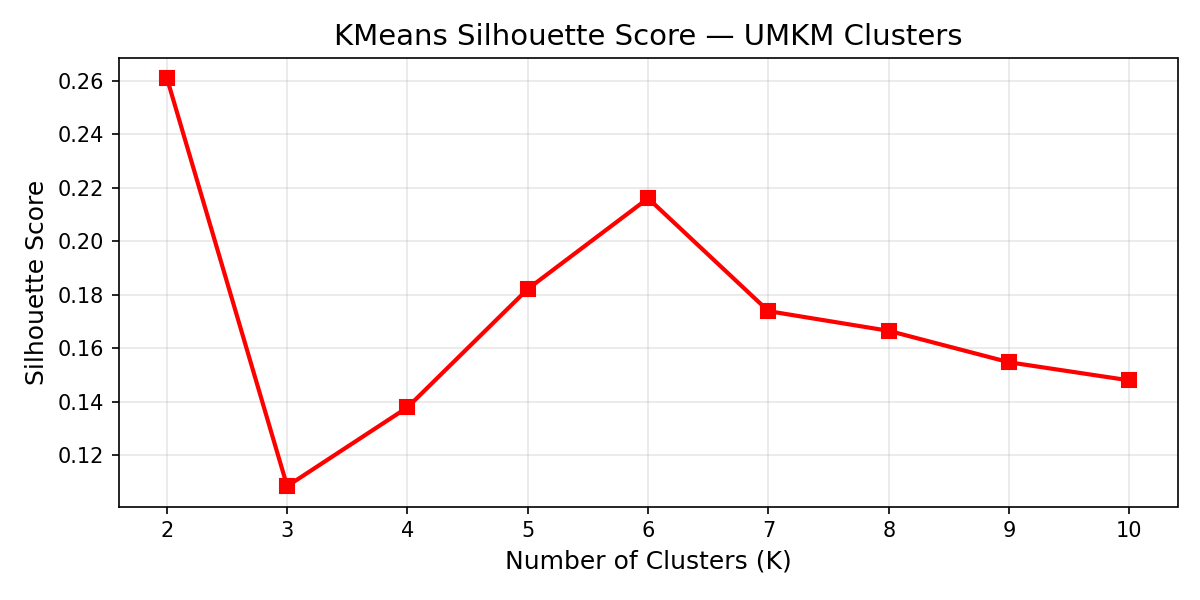
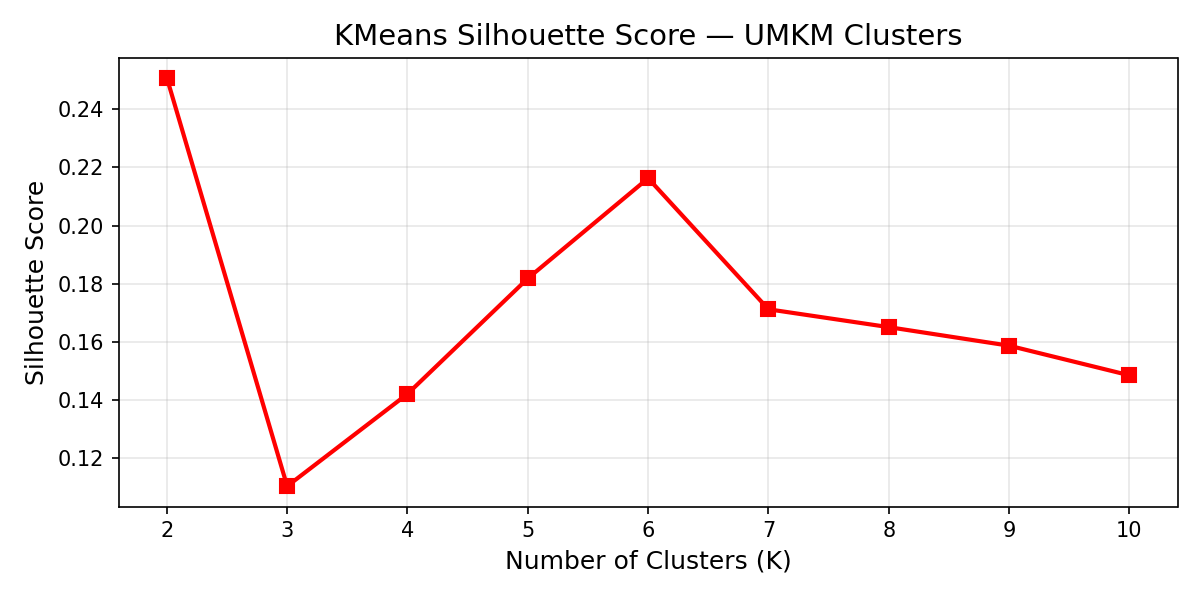
about us design

diff --git a/resources/views/creators/index.blade.php b/resources/views/creators/index.blade.php
@@ -27,18 +27,31 @@
             border: 1px solid rgba(255, 255, 255, 0.3);
         }
         .creative-tier-chip {
-            background: linear-gradient(135deg, rgba(255,255,255,0.96), rgba(248,250,252,0.86));
-            box-shadow: 0 18px 35px rgba(30, 58, 138, 0.14);
+            width: 100%;
+            background:
+                radial-gradient(circle at 22% 12%, rgba(255,255,255,0.92), transparent 34%),
+                linear-gradient(145deg, rgba(255,255,255,0.96), rgba(239,246,255,0.9));
+            box-shadow: 0 16px 32px rgba(30, 58, 138, 0.12);
         }
-        .creative-tier-chip img {
+        .creative-tier-chip .tier-art {
+            background: linear-gradient(145deg, #FFFFFF, #F8FAFC);
+            box-shadow: inset 0 0 0 1px rgba(37,99,235,0.08), 0 12px 24px rgba(37,99,235,0.12);
+        }
+        .creative-tier-chip .tier-art img {
             mix-blend-mode: multiply;
         }
         .creative-tier-chip.is-expert {
-            background: linear-gradient(135deg, #0F172A, #1E3A8A);
-            box-shadow: 0 18px 35px rgba(244, 63, 94, 0.18);
+            background:
+                radial-gradient(circle at 25% 10%, rgba(255,255,255,0.18), transparent 34%),
+                linear-gradient(145deg, #0F172A, #1E3A8A 70%, #BE123C);
+            box-shadow: 0 16px 32px rgba(244, 63, 94, 0.18);
         }
-        .creative-tier-chip.is-expert img {
-            mix-blend-mode: normal;
+        .creative-tier-chip.is-expert .tier-art {
+            background: linear-gradient(145deg, rgba(15,23,42,0.9), rgba(30,58,138,0.82));
+            box-shadow: inset 0 0 0 1px rgba(255,255,255,0.12), 0 12px 24px rgba(15,23,42,0.3);
+        }
+        .creative-tier-chip.is-expert .tier-art img {
+            mix-blend-mode: screen;
         }
     </style>
 </head>
@@ -125,31 +138,36 @@
                     {!! $borderDecor !!}
                     <div class="relative z-10 flex flex-col h-full">
                         <!-- Profile Header -->
-                        <div class="flex items-start gap-5 mb-6 relative">
+                        <div class="flex items-start gap-5 mb-5 relative">
                             <div class="w-20 h-20 rounded-[1.5rem] overflow-hidden shrink-0 border-2 border-white shadow-lg shadow-[#2563EB]/10 group-hover:scale-105 transition-transform">
                                 <img src="{{ $creator->profile_photo ?? 'https://ui-avatars.com/api/?name='.urlencode($creator->name).'&background=2563EB&color=fff' }}" alt="{{ $creator->name }}" class="w-full h-full object-cover">
                             </div>
-                            <div class="flex-grow pt-1">
-                                <h3 class="text-xl font-display font-bold text-[#1E3A8A] leading-tight group-hover:text-[#2563EB] transition-colors pr-24">{{ $creator->name }}</h3>
+                            <div class="flex-grow pt-1 min-w-0">
+                                <h3 class="text-xl font-display font-bold text-[#1E3A8A] leading-tight group-hover:text-[#2563EB] transition-colors">{{ $creator->name }}</h3>
                                 <div class="flex flex-wrap items-center gap-2 mt-1.5">
                                     <span class="text-xs font-bold text-[#2563EB] uppercase tracking-wider">{{ $creator->display_creative_category ?? 'Creative Worker' }}</span>
                                     <span class="w-1 h-1 bg-[#1E3A8A]/20 rounded-full"></span>
                                     <span class="text-xs font-medium text-[#1E3A8A]/40">{{ $creator->city ?? 'Domisili tidak diatur' }}</span>
                                 </div>
                             </div>
+                        </div>
 
-                            @if($creator->creative_tier)
-                                <div class="absolute -top-2 -right-2 creative-tier-chip {{ $creator->creative_tier['name'] === 'Expert' ? 'is-expert' : '' }} rounded-[1.35rem] border border-white/90 p-2 min-w-[5.5rem] text-center transition-all group-hover:-translate-y-1 group-hover:rotate-2" title="{{ $creator->creative_tier['name'] }} - {{ $creator->five_star_ratings_count }} ulasan bintang 5">
-                                    <div class="mx-auto w-12 h-12 rounded-2xl {{ $creator->creative_tier['name'] === 'Expert' ? 'bg-[#0F172A] border-rose-300/20' : 'bg-white border-[#2563EB]/10' }} border flex items-center justify-center overflow-hidden">
-                                        <img src="{{ $creator->creative_tier['badge'] }}" alt="{{ $creator->creative_tier['name'] }} Badge" class="w-11 h-11 object-contain transition-transform group-hover:scale-110">
-                                    </div>
-                                    <span class="mt-1.5 inline-flex px-2 py-0.5 rounded-full {{ $creator->creative_tier['bg'] }} {{ $creator->creative_tier['color'] }} text-[8px] font-black uppercase tracking-wider">
+                        @if($creator->creative_tier)
+                            <div class="creative-tier-chip {{ $creator->creative_tier['name'] === 'Expert' ? 'is-expert' : '' }} rounded-[1.8rem] border border-white/90 p-3 mb-6 flex items-center gap-4 transition-all group-hover:-translate-y-1" title="{{ $creator->creative_tier['name'] }} - {{ $creator->five_star_ratings_count }} ulasan bintang 5">
+                                <div class="tier-art w-16 h-16 rounded-[1.35rem] flex items-center justify-center overflow-hidden shrink-0">
+                                    <img src="{{ $creator->creative_tier['badge'] }}" alt="{{ $creator->creative_tier['name'] }} Badge" class="w-14 h-14 object-contain transition-transform group-hover:scale-110">
+                                </div>
+                                <div class="min-w-0">
+                                    <span class="inline-flex px-3 py-1 rounded-full {{ $creator->creative_tier['name'] === 'Expert' ? 'bg-white/10 text-rose-100 border border-white/10' : $creator->creative_tier['bg'].' '.$creator->creative_tier['color'] }} text-[10px] font-black uppercase tracking-wider">
                                         {{ $creator->creative_tier['name'] }}
                                     </span>
-                                    <span class="block mt-1 text-[9px] font-extrabold {{ $creator->creative_tier['name'] === 'Expert' ? 'text-white/70' : 'text-[#1E3A8A]/45' }}">{{ $creator->five_star_ratings_count }}x 5&#9733;</span>
+                                    <div class="mt-2 flex flex-wrap items-center gap-2">
+                                        <span class="text-lg font-display font-bold {{ $creator->creative_tier['name'] === 'Expert' ? 'text-white' : 'text-[#1E3A8A]' }}">{{ $creator->five_star_ratings_count }}&times; 5&#9733;</span>
+                                        <span class="text-[10px] font-extrabold uppercase tracking-[0.16em] {{ $creator->creative_tier['name'] === 'Expert' ? 'text-white/55' : 'text-[#1E3A8A]/40' }}">Ulasan Terbaik</span>
+                                    </div>
                                 </div>
-                            @endif
-                        </div>
+                            </div>
+                        @endif
 
                         <!-- Skills & Stats -->
                         <div class="flex-grow">

diff --git a/resources/views/creators/show.blade.php b/resources/views/creators/show.blade.php
@@ -26,21 +26,35 @@
         }
         .creative-tier-chip,
         .creative-tier-stat {
-            background: linear-gradient(135deg, rgba(255,255,255,0.96), rgba(239,246,255,0.84));
-            box-shadow: 0 18px 35px rgba(37, 99, 235, 0.13);
+            background:
+                radial-gradient(circle at 22% 12%, rgba(255,255,255,0.92), transparent 34%),
+                linear-gradient(145deg, rgba(255,255,255,0.96), rgba(239,246,255,0.9));
+            box-shadow: 0 22px 42px rgba(30, 58, 138, 0.16);
         }
-        .creative-tier-chip img,
-        .creative-tier-stat img {
+        .creative-tier-chip .tier-art,
+        .creative-tier-stat .tier-art {
+            background: linear-gradient(145deg, #FFFFFF, #F8FAFC);
+            box-shadow: inset 0 0 0 1px rgba(37,99,235,0.08), 0 12px 24px rgba(37,99,235,0.12);
+        }
+        .creative-tier-chip .tier-art img,
+        .creative-tier-stat .tier-art img {
             mix-blend-mode: multiply;
         }
         .creative-tier-chip.is-expert,
         .creative-tier-stat.is-expert {
-            background: linear-gradient(135deg, #0F172A, #1E3A8A);
-            box-shadow: 0 18px 35px rgba(244, 63, 94, 0.18);
+            background:
+                radial-gradient(circle at 25% 10%, rgba(255,255,255,0.18), transparent 34%),
+                linear-gradient(145deg, #0F172A, #1E3A8A 70%, #BE123C);
+            box-shadow: 0 22px 42px rgba(244, 63, 94, 0.2);
         }
-        .creative-tier-chip.is-expert img,
-        .creative-tier-stat.is-expert img {
-            mix-blend-mode: normal;
+        .creative-tier-chip.is-expert .tier-art,
+        .creative-tier-stat.is-expert .tier-art {
+            background: linear-gradient(145deg, rgba(15,23,42,0.9), rgba(30,58,138,0.82));
+            box-shadow: inset 0 0 0 1px rgba(255,255,255,0.12), 0 12px 24px rgba(15,23,42,0.3);
+        }
+        .creative-tier-chip.is-expert .tier-art img,
+        .creative-tier-stat.is-expert .tier-art img {
+            mix-blend-mode: screen;
         }
     </style>
 </head>
@@ -65,15 +79,15 @@
                         <div class="flex items-center gap-3 mb-2">
                             <p class="text-[11px] font-extrabold uppercase tracking-[0.22em] text-[#2563EB]">{{ $creator->display_creative_category ?? 'Creative Worker' }}</p>
                             @if($creator->creative_tier)
-                                <div class="creative-tier-chip {{ $creator->creative_tier['name'] === 'Expert' ? 'is-expert' : '' }} inline-flex items-center gap-2.5 px-3 py-2 rounded-full border border-white/90" title="{{ $creator->five_star_ratings_count }} ulasan bintang 5">
-                                    <span class="w-9 h-9 rounded-full {{ $creator->creative_tier['name'] === 'Expert' ? 'bg-[#0F172A] border-rose-300/20' : 'bg-white border-[#2563EB]/10' }} border flex items-center justify-center overflow-hidden">
-                                        <img src="{{ $creator->creative_tier['badge'] }}" alt="{{ $creator->creative_tier['name'] }} Badge" class="w-8 h-8 object-contain">
+                                <div class="creative-tier-chip {{ $creator->creative_tier['name'] === 'Expert' ? 'is-expert' : '' }} inline-flex items-center gap-3 px-4 py-3 rounded-[1.65rem] border border-white/90" title="{{ $creator->five_star_ratings_count }} ulasan bintang 5">
+                                    <span class="tier-art w-14 h-14 rounded-[1.2rem] flex items-center justify-center overflow-hidden">
+                                        <img src="{{ $creator->creative_tier['badge'] }}" alt="{{ $creator->creative_tier['name'] }} Badge" class="w-12 h-12 object-contain">
                                     </span>
                                     <span class="leading-none">
-                                        <span class="block text-[10px] font-extrabold uppercase tracking-wider {{ $creator->creative_tier['name'] === 'Expert' ? 'text-rose-200' : $creator->creative_tier['color'] }}">
+                                        <span class="inline-flex px-3 py-1 rounded-full {{ $creator->creative_tier['name'] === 'Expert' ? 'bg-white/10 text-rose-100 border border-white/10' : $creator->creative_tier['bg'].' '.$creator->creative_tier['color'] }} text-[10px] font-extrabold uppercase tracking-wider">
                                             {{ $creator->creative_tier['name'] }}
                                         </span>
-                                        <span class="block text-[10px] font-bold {{ $creator->creative_tier['name'] === 'Expert' ? 'text-white/70' : 'text-[#1E3A8A]/45' }} mt-1">{{ $creator->five_star_ratings_count }}x rating 5&#9733;</span>
+                                        <span class="block text-xs font-bold {{ $creator->creative_tier['name'] === 'Expert' ? 'text-white/72' : 'text-[#1E3A8A]/45' }} mt-2">{{ $creator->five_star_ratings_count }}&times; rating 5&#9733;</span>
                                     </span>
                                 </div>
                             @endif
@@ -105,10 +119,11 @@
                     </div>
                     @if($creator->creative_tier)
                         <div class="creative-tier-stat {{ $creator->creative_tier['name'] === 'Expert' ? 'is-expert' : '' }} rounded-[1.8rem] border border-white p-4 text-center">
-                            <div class="w-11 h-11 mx-auto mb-2 rounded-2xl {{ $creator->creative_tier['name'] === 'Expert' ? 'bg-[#0F172A] border-rose-300/20' : 'bg-white border-[#2563EB]/10' }} border flex items-center justify-center overflow-hidden">
-                                <img src="{{ $creator->creative_tier['badge'] }}" alt="{{ $creator->creative_tier['name'] }} Badge" class="w-10 h-10 object-contain">
+                            <div class="tier-art w-14 h-14 mx-auto mb-3 rounded-[1.2rem] flex items-center justify-center overflow-hidden">
+                                <img src="{{ $creator->creative_tier['badge'] }}" alt="{{ $creator->creative_tier['name'] }} Badge" class="w-12 h-12 object-contain">
                             </div>
-                            <p class="text-[10px] font-extrabold uppercase tracking-[0.16em] {{ $creator->creative_tier['name'] === 'Expert' ? 'text-rose-200' : $creator->creative_tier['color'] }}">{{ $creator->creative_tier['name'] }}</p>
+                            <p class="text-[10px] font-extrabold uppercase tracking-[0.16em] {{ $creator->creative_tier['name'] === 'Expert' ? 'text-rose-100' : $creator->creative_tier['color'] }}">{{ $creator->creative_tier['name'] }}</p>
+                            <p class="mt-1 text-[10px] font-bold {{ $creator->creative_tier['name'] === 'Expert' ? 'text-white/70' : 'text-[#1E3A8A]/45' }}">{{ $creator->five_star_ratings_count }}&times; 5&#9733;</p>
                         </div>
                     @else
                         <div class="rounded-[1.8rem] bg-white/80 border border-white p-4 text-center shadow-sm">

diff --git a/resources/views/dashboard/creative.blade.php b/resources/views/dashboard/creative.blade.php
@@ -82,18 +82,30 @@
             -webkit-text-fill-color: transparent;
         }
         .tier-logo {
-            background: linear-gradient(135deg, rgba(255,255,255,0.96), rgba(239,246,255,0.82));
-            box-shadow: 0 18px 40px rgba(37, 99, 235, 0.14);
+            background:
+                radial-gradient(circle at 22% 12%, rgba(255,255,255,0.92), transparent 34%),
+                linear-gradient(145deg, rgba(255,255,255,0.96), rgba(239,246,255,0.9));
+            box-shadow: 0 22px 42px rgba(30, 58, 138, 0.16);
         }
-        .tier-logo img {
+        .tier-logo .tier-art {
+            background: linear-gradient(145deg, #FFFFFF, #F8FAFC);
+            box-shadow: inset 0 0 0 1px rgba(37,99,235,0.08), 0 12px 24px rgba(37,99,235,0.12);
+        }
+        .tier-logo .tier-art img {
             mix-blend-mode: multiply;
         }
         .tier-logo.is-expert {
-            background: linear-gradient(135deg, #0F172A, #1E3A8A);
-            box-shadow: 0 18px 40px rgba(244, 63, 94, 0.18);
+            background:
+                radial-gradient(circle at 25% 10%, rgba(255,255,255,0.18), transparent 34%),
+                linear-gradient(145deg, #0F172A, #1E3A8A 70%, #BE123C);
+            box-shadow: 0 22px 42px rgba(244, 63, 94, 0.2);
         }
-        .tier-logo.is-expert img {
-            mix-blend-mode: normal;
+        .tier-logo.is-expert .tier-art {
+            background: linear-gradient(145deg, rgba(15,23,42,0.9), rgba(30,58,138,0.82));
+            box-shadow: inset 0 0 0 1px rgba(255,255,255,0.12), 0 12px 24px rgba(15,23,42,0.3);
+        }
+        .tier-logo.is-expert .tier-art img {
+            mix-blend-mode: screen;
         }
     </style>
 </head>
@@ -125,13 +137,13 @@
                             <span class="text-[11px] font-black uppercase tracking-[0.2em] text-slate-600">Online & Siap Bekerja</span>
                         </div>
                         @if($user->creative_tier)
-                            <div class="tier-logo {{ $user->creative_tier['name'] === 'Expert' ? 'is-expert' : '' }} inline-flex items-center gap-2.5 px-3 py-2 rounded-full border border-white/90" title="{{ $user->five_star_ratings_count }} ulasan bintang 5">
-                                <span class="w-9 h-9 rounded-full {{ $user->creative_tier['name'] === 'Expert' ? 'bg-[#0F172A] border-rose-300/20' : 'bg-white border-[#2563EB]/10' }} flex items-center justify-center overflow-hidden border">
-                                    <img src="{{ $user->creative_tier['badge'] }}" alt="{{ $user->creative_tier['name'] }} Badge" class="w-8 h-8 object-contain">
+                            <div class="tier-logo {{ $user->creative_tier['name'] === 'Expert' ? 'is-expert' : '' }} inline-flex items-center gap-3 px-4 py-3 rounded-[1.65rem] border border-white/90" title="{{ $user->five_star_ratings_count }} ulasan bintang 5">
+                                <span class="tier-art w-14 h-14 rounded-[1.2rem] flex items-center justify-center overflow-hidden">
+                                    <img src="{{ $user->creative_tier['badge'] }}" alt="{{ $user->creative_tier['name'] }} Badge" class="w-12 h-12 object-contain">
                                 </span>
                                 <span class="leading-none">
-                                    <span class="block text-[10px] font-black uppercase tracking-[0.18em] {{ $user->creative_tier['name'] === 'Expert' ? 'text-rose-200' : $user->creative_tier['color'] }}">{{ $user->creative_tier['name'] }}</span>
-                                    <span class="block text-[10px] font-bold {{ $user->creative_tier['name'] === 'Expert' ? 'text-white/70' : 'text-slate-500' }} mt-1">{{ $user->five_star_ratings_count }} bintang 5</span>
+                                    <span class="inline-flex px-3 py-1 rounded-full {{ $user->creative_tier['name'] === 'Expert' ? 'bg-white/10 text-rose-100 border border-white/10' : $user->creative_tier['bg'].' '.$user->creative_tier['color'] }} text-[10px] font-black uppercase tracking-[0.18em]">{{ $user->creative_tier['name'] }}</span>
+                                    <span class="block text-xs font-bold {{ $user->creative_tier['name'] === 'Expert' ? 'text-white/72' : 'text-slate-500' }} mt-2">{{ $user->five_star_ratings_count }}&times; bintang 5</span>
                                 </span>
                             </div>
                         @endif

diff --git a/app/Models/User.php b/app/Models/User.php
@@ -127,21 +127,21 @@ class User extends Authenticatable implements JWTSubject  // implements JWTSubje
         if ($fiveStarCount >= 20) {
             return [
                 'name' => 'Expert',
-                'badge' => asset('images/badges/star-red.jpg'),
+                'badge' => asset('images/assets/red%20star.png'),
                 'color' => 'text-rose-600',
                 'bg' => 'bg-rose-50',
             ];
         } elseif ($fiveStarCount >= 10) {
             return [
                 'name' => 'Intermediate',
-                'badge' => asset('images/badges/star-blue.jpg'),
+                'badge' => asset('images/assets/blue%20star.jpg'),
                 'color' => 'text-blue-600',
                 'bg' => 'bg-blue-50',
             ];
         } elseif ($fiveStarCount >= 1) {
             return [
                 'name' => 'Beginner',
-                'badge' => asset('images/badges/star-yellow.jpg'),
+                'badge' => asset('images/assets/yellow%20stars.jpg'),
                 'color' => 'text-amber-600',
                 'bg' => 'bg-amber-50',
             ];